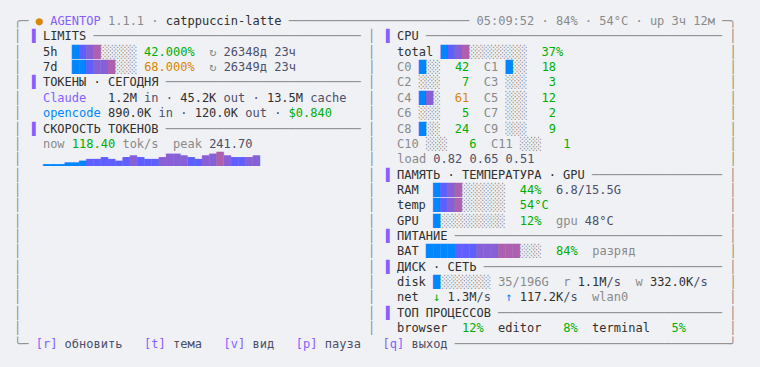
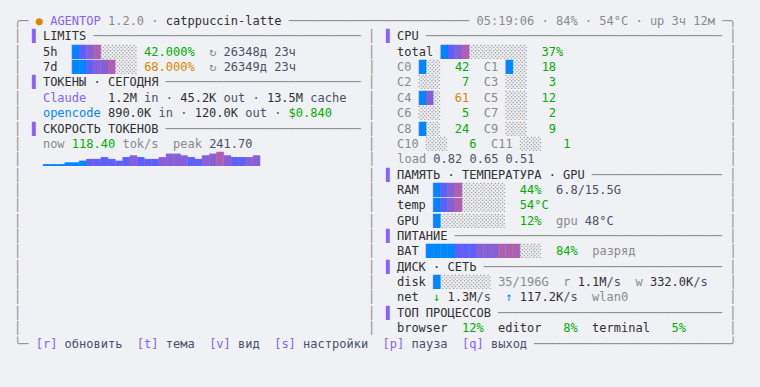
AgentOp 1.2.0 — in-app settings, refresh interval 0.01–300 s

diff --git a/README.ru.md b/README.ru.md
@@ -3,7 +3,7 @@
 **Терминальный дашборд для AI-агентов**: лимиты Claude, расход токенов, скорость токенов и здоровье системы в одном живом TUI. Этакий `top`, но для агентов и железа.
 
 ```
-╭─ ● AGENTOP 1.1.1 · catppuccin-mocha ─────────────── 15:42:07 · 88% · 46°C · up 30м ─╮
+╭─ ● AGENTOP 1.2.0 · catppuccin-mocha ─────────────── 15:42:07 · 88% · 46°C · up 30м ─╮
 │ ▐ LIMITS ───────────────────────────────────── │ ▐ CPU ────────────────────────────────────── │
 │   5h  ░░░░░░░░░░░░ 0.000%  ↻ 4ч 32м            │   total ██░░░░░░░░░░  15%  ▁                  │
 │   7d  ███░░░░░░░░░ 23.000%  ↻ 14ч 02м          │   C0 █████ 100  C1 ░░░░░   2  C2 ░░░░░   9   │
@@ -44,6 +44,12 @@
 agentop --view focus
 agentop --list-views
 ```
+
+## Настройки
+
+`s` в живом режиме. Интервал обновления — от **0.01 до 300 секунд**, тема, вид, история, знаки после запятой и набор секций. Изменения сразу сохраняются в `~/.config/agentop/config.json`.
+
+![](docs/settings.png)
 
 ## Темы
 
@@ -90,7 +96,7 @@ agentop --ms            # сантисекунды, ~100 FPS (нагружает
 agentop --version
 ```
 
-Клавиши: `r` — обновить, `t` — тема, `v` — вид, `p` — пауза, `q` — выход.
+Клавиши: `r` — обновить, `t` — тема, `v` — вид, `s` — настройки, `p` — пауза, `q` — выход.
 
 ## Конфиг
 

diff --git a/README.md b/README.md
@@ -3,7 +3,7 @@
 **A terminal dashboard for AI coding agents** — Claude limits, token spend, token speed and system health in one live TUI. Think `top`, but for your agents + machine.
 
 ```
-╭─ ● AGENTOP 1.1.1 · catppuccin-mocha ─────────────── 15:42:07 · 88% · 46°C · up 30м ─╮
+╭─ ● AGENTOP 1.2.0 · catppuccin-mocha ─────────────── 15:42:07 · 88% · 46°C · up 30м ─╮
 │ ▐ LIMITS ───────────────────────────────────── │ ▐ CPU ────────────────────────────────────── │
 │   5h  ░░░░░░░░░░░░ 0.000%  ↻ 4ч 32м            │   total ██░░░░░░░░░░  15%  ▁                  │
 │   7d  ███░░░░░░░░░ 23.000%  ↻ 14ч 02м          │   C0 █████ 100  C1 ░░░░░   2  C2 ░░░░░   9   │
@@ -49,6 +49,12 @@ Switch views with `v` (saved to config) or `--view`:
 agentop --view focus
 agentop --list-views
 ```
+
+## Settings
+
+Press `s` in the live view. Change the refresh interval from **0.01 s to 300 s**, theme, view, sparkline history, decimals and which sections to show. Changes are saved to `~/.config/agentop/config.json` immediately.
+
+![](docs/settings.png)
 
 ## Themes
 
@@ -110,6 +116,7 @@ In the live view:
 | `r` | refresh now (caches + limits) |
 | `t` | next theme (saved to config) |
 | `v` | next view (saved to config) |
+| `s` | settings screen (interval 0.01–300 s) |
 | `p` | pause / resume (0 % CPU while paused) |
 | `q` | quit |
 
